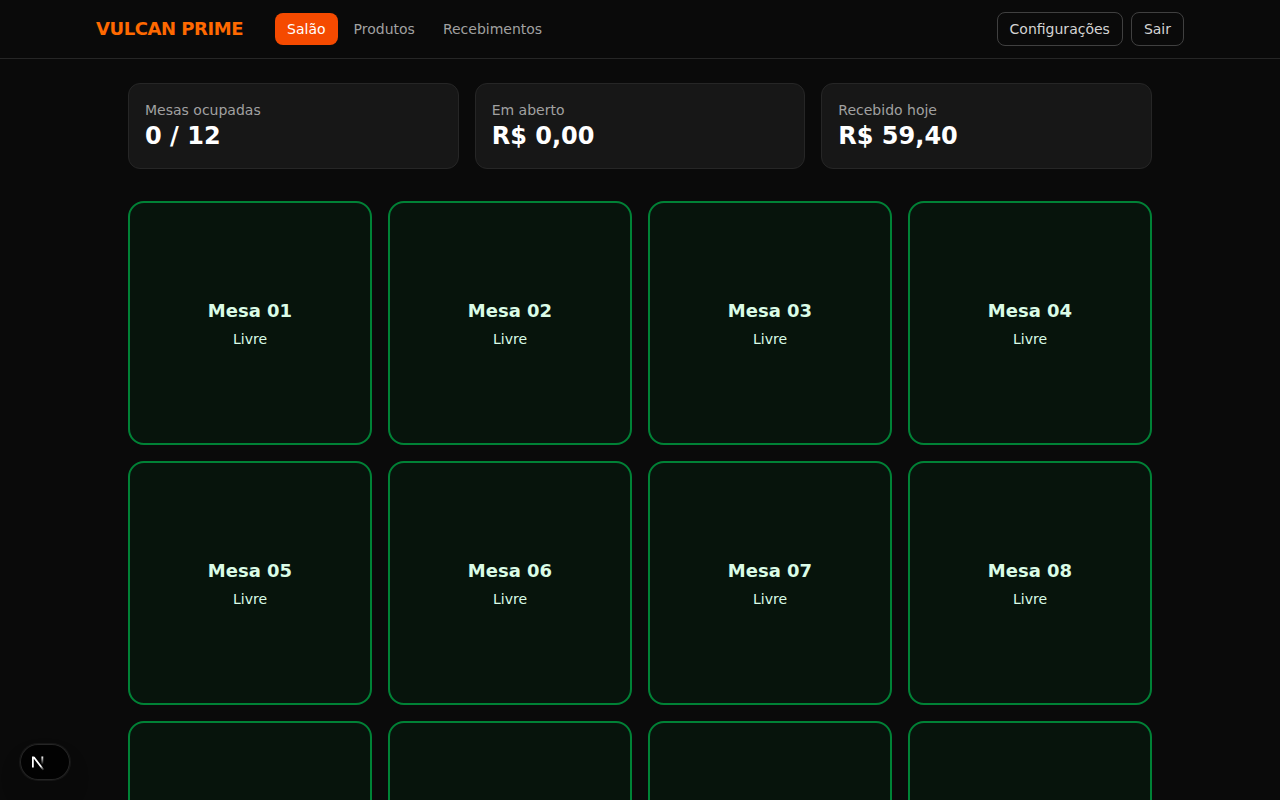
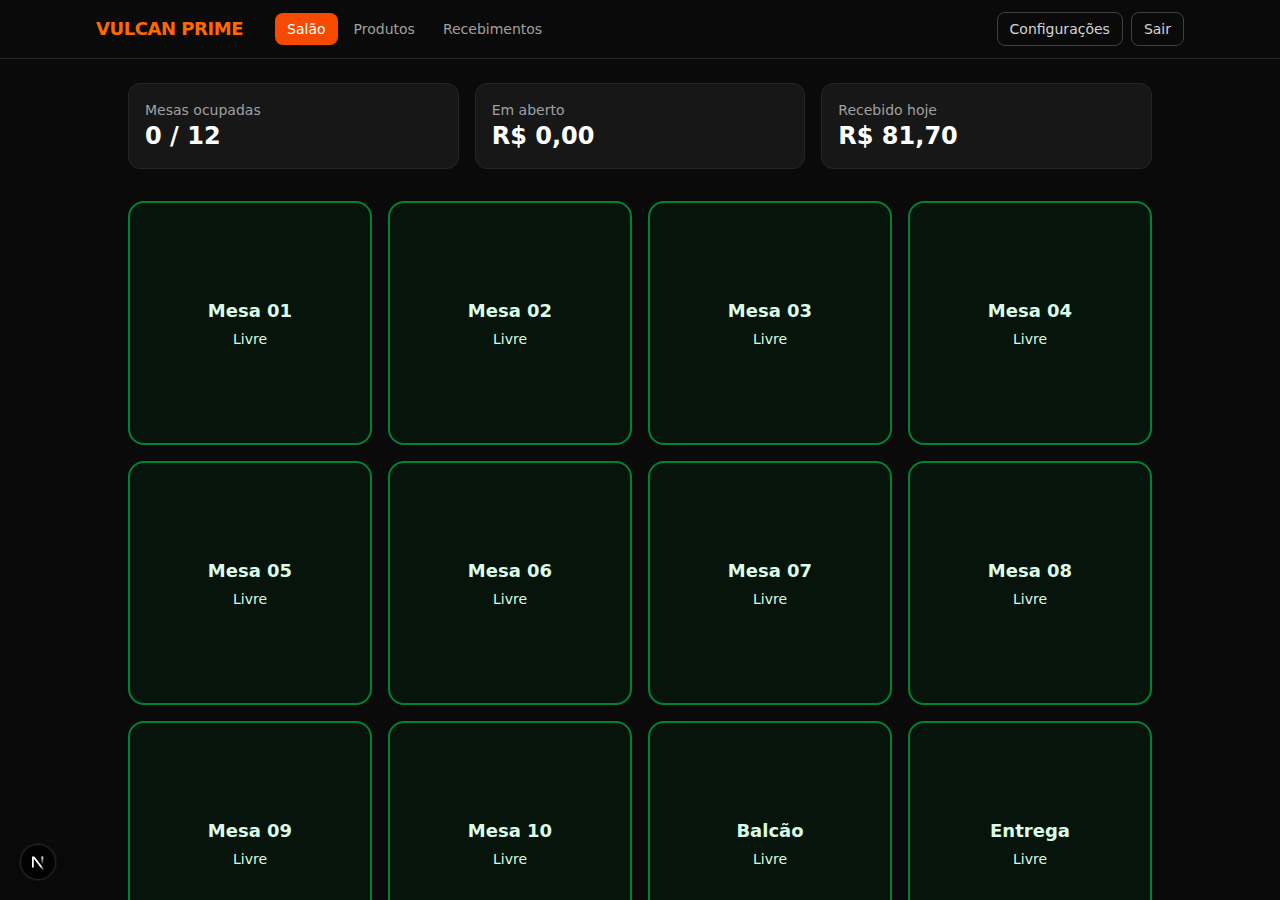
docs: registra os ajustes da rodada de 20/09 (Balcão/Entrega + fix de pagamento)
Seção 39 da spec técnica + screenshots atualizados (Salão com 12 campos,
fechamento com total corrigido, Entrega com taxa de entrega, Recebimentos
com as colunas novas).

diff --git a/ESPECIFICACAO_TECNICA.md b/ESPECIFICACAO_TECNICA.md
@@ -1166,3 +1166,21 @@ Depois da V1 completa (etapas 1-9), o Mateus testou com dados reais e pediu os a
 **Menu:** "Pagamentos" saiu do menu principal (fica só Salão / Produtos / Recebimentos) e virou um link dentro de Configurações, junto de Alterar senha. Atualiza a seção 2.
 
 **Performance ao lançar/ajustar item.** Cada clique fazia 2-3 idas sequenciais ao banco (select existência + insert/update). Viraram funções Postgres únicas (`lancar_produto_comanda`, `ajustar_quantidade_item`) fazendo tudo numa ida só. A carga da tela da comanda também foi paralelizada (cardápio não depende da mesa, busca os dois ao mesmo tempo). Nota: parte da lentidão percebida é inerente ao modo dev (Turbopack/HMR) — tende a melhorar ainda mais rodando em produção.
+
+---
+
+# 39. SALÃO EM 12 CAMPOS + CORREÇÃO DO FECHAMENTO (20/09/2026)
+
+Segunda rodada de testes reais do Mateus achou um bug crítico de fechamento e pediu a reestruturação do Salão. Todos os itens abaixo implementados e testados (24 testes automatizados, ver seção 37 pro padrão de `BASE_URL`).
+
+**Bug crítico corrigido: pagamento comparava com o subtotal, não com o total.** Ao ativar gorjeta (ex.: item R$28 + 10% = R$30,80) e tentar pagar em duas formas (R$28 no cartão + R$2,80 em dinheiro, ou até o R$30,80 inteiro numa forma só), o sistema recusava — a validação de "valor bate" comparava a soma digitada contra `subtotal` (R$28), nunca contra o total com gorjeta. Corrigido em `src/app/api/mesas/encerrar/route.ts` e no cálculo de `faltaCobrir` do `FechamentoForm.tsx`: agora tudo compara contra `total = subtotal + gorjeta + taxa de entrega`. Esse bug também afetava o card do Salão (mostrava só o subtotal pra mesa em "Conta", ex. R$28 em vez de R$30,80) — mesma causa, corrigida em `src/lib/data/salao.ts`.
+
+**Salão vira 12 campos fixos: 10 mesas numeradas + Balcão + Entrega**, no lugar do grid solto de mesas. Balcão (venda de balcão/retirada) e Entrega (delivery) reaproveitam 100% do mecanismo de mesa/comanda existente — abrir, lançar produto, fechar, pagar — via uma coluna nova `mesas.tipo` (`'mesa' | 'balcao' | 'entrega'`, mesa 11 = Balcão, mesa 12 = Entrega). O rótulo exibido (`rotuloMesa()` em `src/lib/mesa-label.ts`) é a única coisa que muda visualmente: "Mesa 01", "Balcão", "Entrega". Migração `0008_balcao_entrega.sql`.
+
+**Entrega tem campo de taxa de entrega editável**, pré-preenchido com R$5,00 (`mesas.taxa_entrega`, também gravado em `fechamentos.taxa_entrega` no fechamento pra ficar no histórico). Some do total junto com itens e gorjeta. Ao confirmar o pagamento, a mesa Entrega volta pro padrão de R$5,00 pra próxima venda; Balcão nunca mostra esse campo.
+
+**Valores digitados formatam sozinhos.** Os campos de forma de pagamento no fechamento agora usam o mesmo `formatarInputMoeda()` que já existia em Produtos (`src/lib/format.ts`): digitou "30", saiu do campo, vira "30,00". Extraído num componente `<MoneyInput>` reaproveitado tanto em Produtos quanto no Fechamento.
+
+**Gorjeta e nº de pessoas não se perdem mais ao sair da tela sem clicar em nada.** Antes só salvava ao clicar em "Fechar conta e imprimir recibo". Agora a tela de fechamento salva sozinha (debounce de 500ms) a cada mudança de gorjeta/pessoas/taxa de entrega, via `POST /api/mesas/salvar-parcial` — endpoint leve que só atualiza a mesa, sem navegar de página.
+
+**Feedback visual de clique** (`src/app/(app)/LoadingBar.tsx`): barra de progresso animada no topo + botão clicado fica meio apagado, em qualquer envio de formulário do sistema. Medição feita nesta rodada: cada ida ao Supabase custa ~0,2s de rede (banco fica fora do Brasil); isso é fixo e não depende do código — já está no mínimo de idas possível desde a otimização da seção 38. A barra de progresso é o jeito de deixar essa espera visível/intencional em vez de parecer travado.
